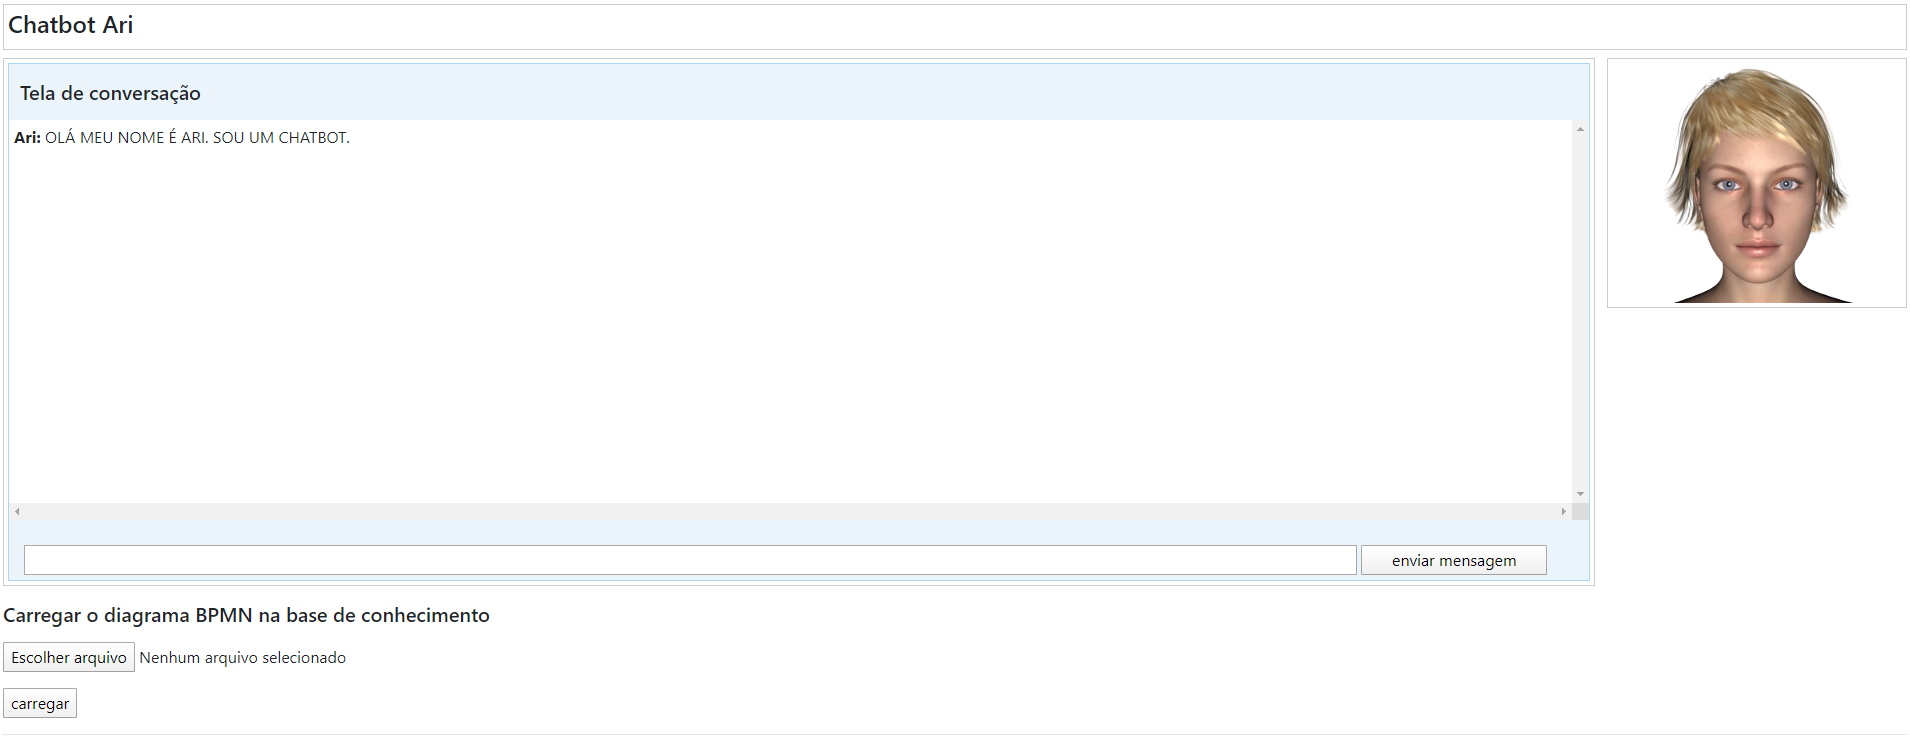
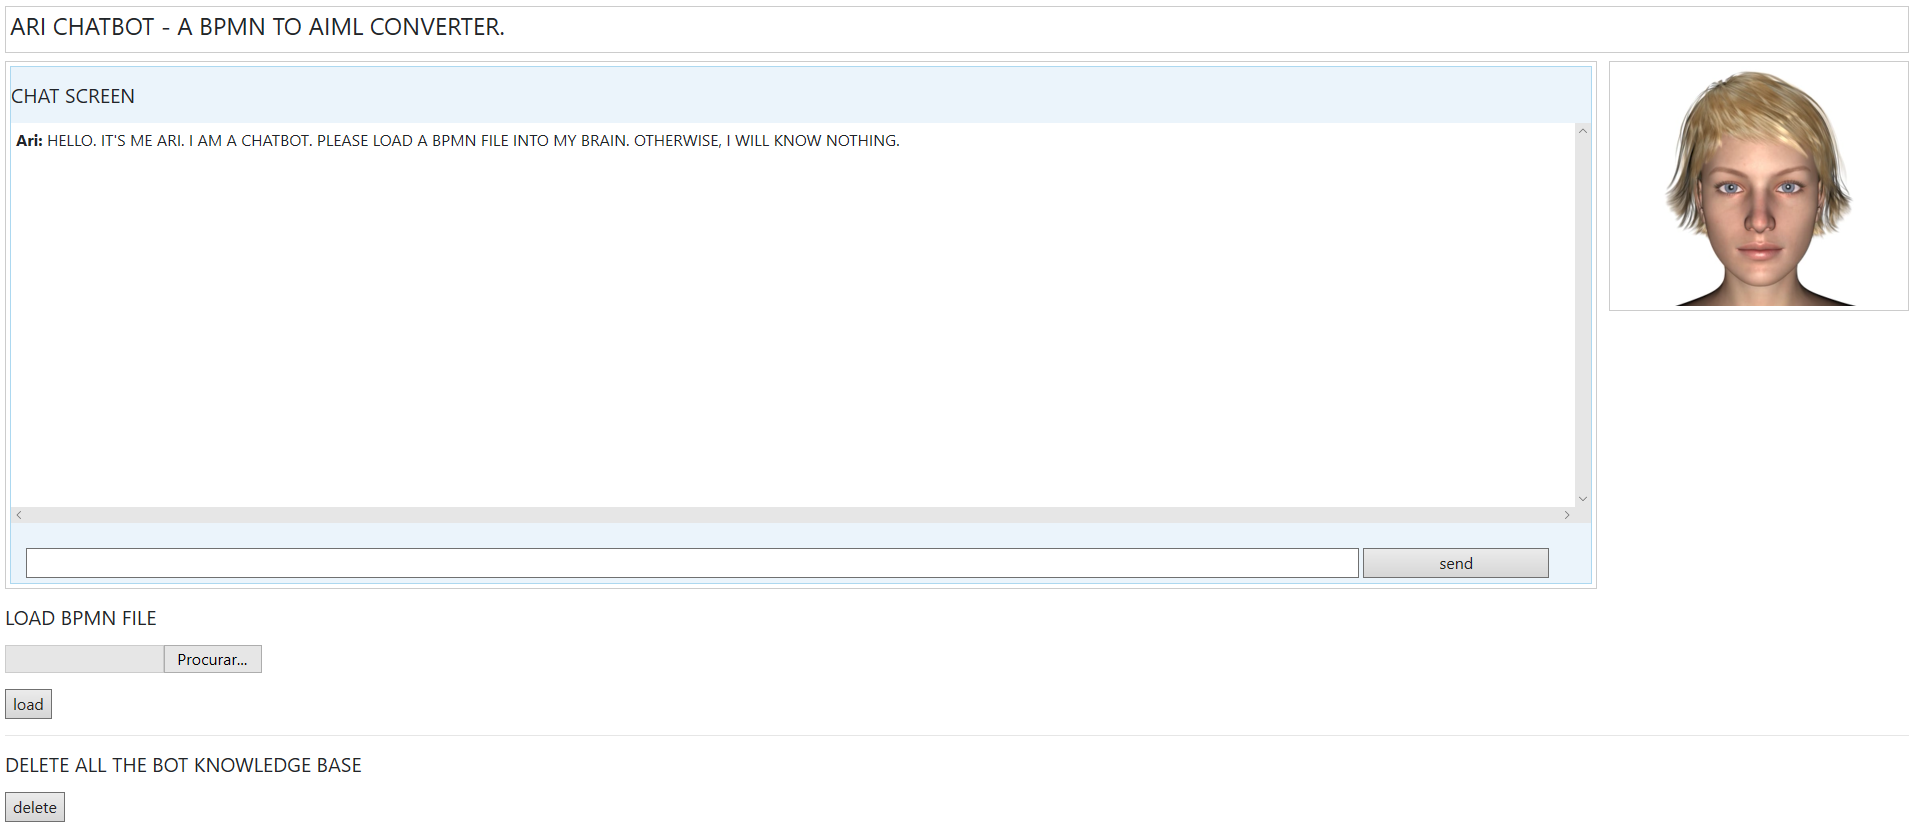
ultima versao

diff --git a/static/webchat.html b/static/webchat.html
@@ -23,7 +23,7 @@
 
 <div class="d-none d-md-block">
     <!-- <header><h4>Ari, um chatbot que conversa sobre ética e depressão. </h4></header> -->
-    <header><h4>Arichatbot - A BPMN to AIML Converter</h4></header>
+    <header><h4>ARI CHATBOT - A BPMN TO AIML CONVERTER.</h4></header>
 </div>
 
 <div class="columnsContainer">
@@ -31,7 +31,7 @@
     <div class="leftColumn">
         <div id="formwrapper">
             <div id="menu">
-                <p class="welcome"><h5>Chat</h5><b></b></p>
+                <p class="welcome"><h5>CHAT SCREEN</h5><b></b></p>
             </div>
 
             <div id="chatbox"></div>
@@ -59,10 +59,10 @@
     <div id="upload">
         <form action="uploader" method="POST"
               enctype="multipart/form-data">
-            <p><h5>LOAD BPMN file</h5></p>
+            <p><h5>LOAD BPMN FILE</h5></p>
             <input type="file" name="file" maxlength="14" size="14"/>
             <p></p>
-            <input type="submit" value="carregar"/>
+            <input type="submit" value="load"/>
         </form>
     </div>
 
@@ -70,8 +70,8 @@
         <hr/>
         <form action="apagar" method="POST"
               enctype="multipart/form-data">
-            <p><h5>Delete all the bot Knowledge Base</h5></p>
-            <input type="submit" value="apagar"/>
+            <p><h5>DELETE ALL THE BOT KNOWLEDGE BASE</h5></p>
+            <input type="submit" value="delete"/>
         </form>
     </div>
 
